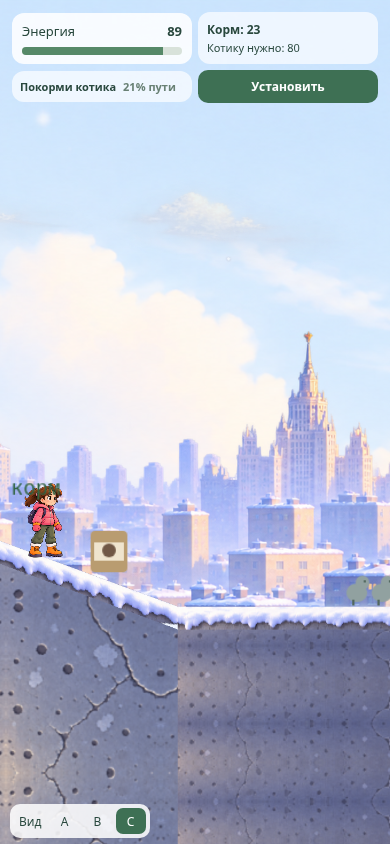
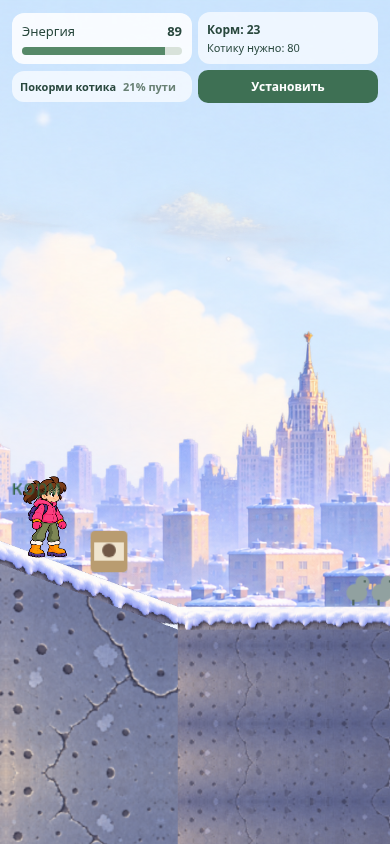
Simplify Tanya artwork and increase visual size by 10 percent

Changed region(s): [[0.0, 0.955, 0.4, 1.0], [0.0615, 0.5545, 0.1846, 0.6777]]

diff --git a/src/tanya-visual.ts b/src/tanya-visual.ts
@@ -3,13 +3,13 @@ import Phaser from 'phaser';
 export type TanyaVisualState = 'run' | 'jump' | 'fall' | 'tired' | 'rest';
 export type TanyaVisualContext = { resting: boolean; tired: boolean; recovering: boolean };
 
-// Static cutout from the approved concept, not a sprite sheet. Frame coordinates
+// Static simplified production sprite, not a sprite sheet. Frame coordinates
 // trim transparent padding and center the two boot soles around the anchor.
 export const tanyaArt = {
   key: 'tanya:stand', file: 'assets/characters/tanya/tanya-stand.png',
   sourceWidth: 1024, sourceHeight: 1536,
-  frame: { x: 150, y: 49, width: 762, height: 1387 },
-  renderedHeight: 64.48, rasterHeight: 248, rasterWidth: 138,
+  frame: { x: 120, y: 27, width: 795, height: 1476 },
+  renderedHeight: 70.928, rasterHeight: 248, rasterWidth: 138,
   displayKey: 'tanya:stand-display',
 };
 type TanyaPose = { key: string; frame: string; renderedHeight: number };

diff --git a/GAME_DESIGN.md b/GAME_DESIGN.md
@@ -1587,3 +1587,16 @@ size/visual clearance statement; the physical clearance is unchanged.
 Reduce Tanya visual size by20% from §34: 80.6 × 0.8 = 64.48px tall,
 35.88px wide, prepared-texture scale0.26. This supersedes §34 visual size.
 Keep physics body, foot anchor, level geometry, movement and camera unchanged.
+
+
+## 36. Approved simplified Tanya art
+
+Replace the static heroine artwork with a simplified right-facing production PNG:
+large hot-pink jacket, olive trousers, vivid orange boots, cohesive brown hair,
+simplified face, stronger dark outline, restrained cel shading, slightly larger
+head, hands and boots. No animation or gameplay change.
+Visual height increases 10% from §35 to70.928px; frame width39.468px.
+Source1024×1536, crop(120,27,795,1476), cached138×248, scale0.286.
+Existing24×50 physics body/offset(8,4), bottom anchor, movement, energy,
+level and camera remain unchanged. Other visual states still share this static
+pose; sitting/rest and genuine run/jump/fall/tired animation assets remain missing.

diff --git a/docs/tanya/README.md b/docs/tanya/README.md
@@ -1,9 +1,10 @@
 # Tanya — static character integration
 
-> Latest phone request: visual size reduced by20% from the previous size to35.88×64.48 world px
-> (prepared texture scale0.26). Physics/body, foot anchor, camera and level
-> remain unchanged. The original62px sizing audit below is historical; no
-> geometry adaptation is part of this experiment.
+> Latest phone request: simplified production art with broader pink/olive/orange
+> color masses, heavier outline, simplified face/hair, bigger head/mittens/boots.
+> Display height +10%: **39.468×70.928 world px**, prepared texture scale **0.286**.
+> Source crop: x120,y27,w795,h1476. Bottom anchor and 24×50 body (offset8,4)
+> remain unchanged. The original integration audit below describes the first asset.
 
 This pass changes presentation only. The current level, physics, energy, pickups,
 enemies and camera remain the technical base. No new animation is fabricated.
